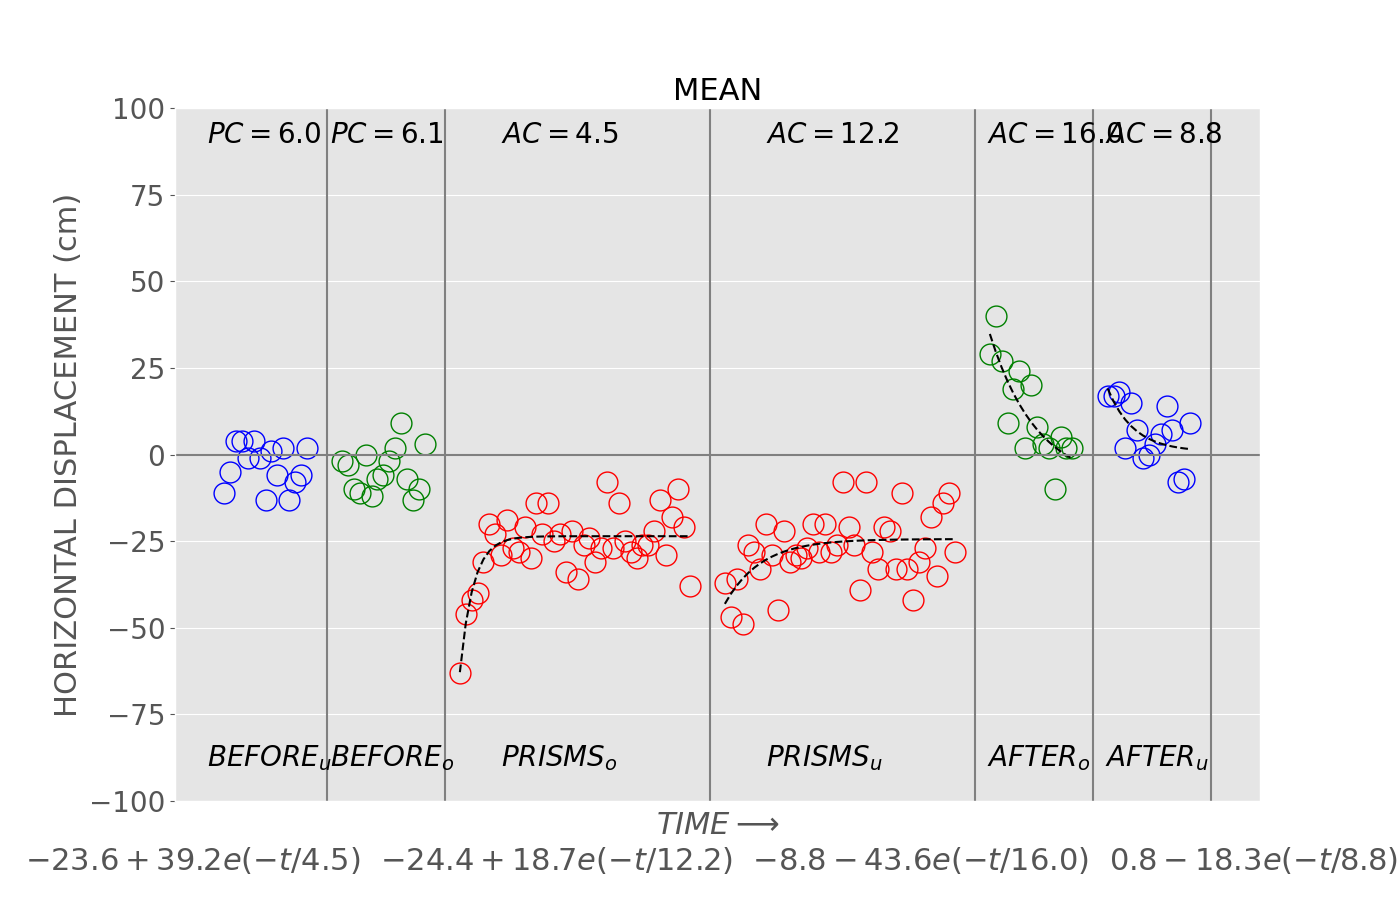
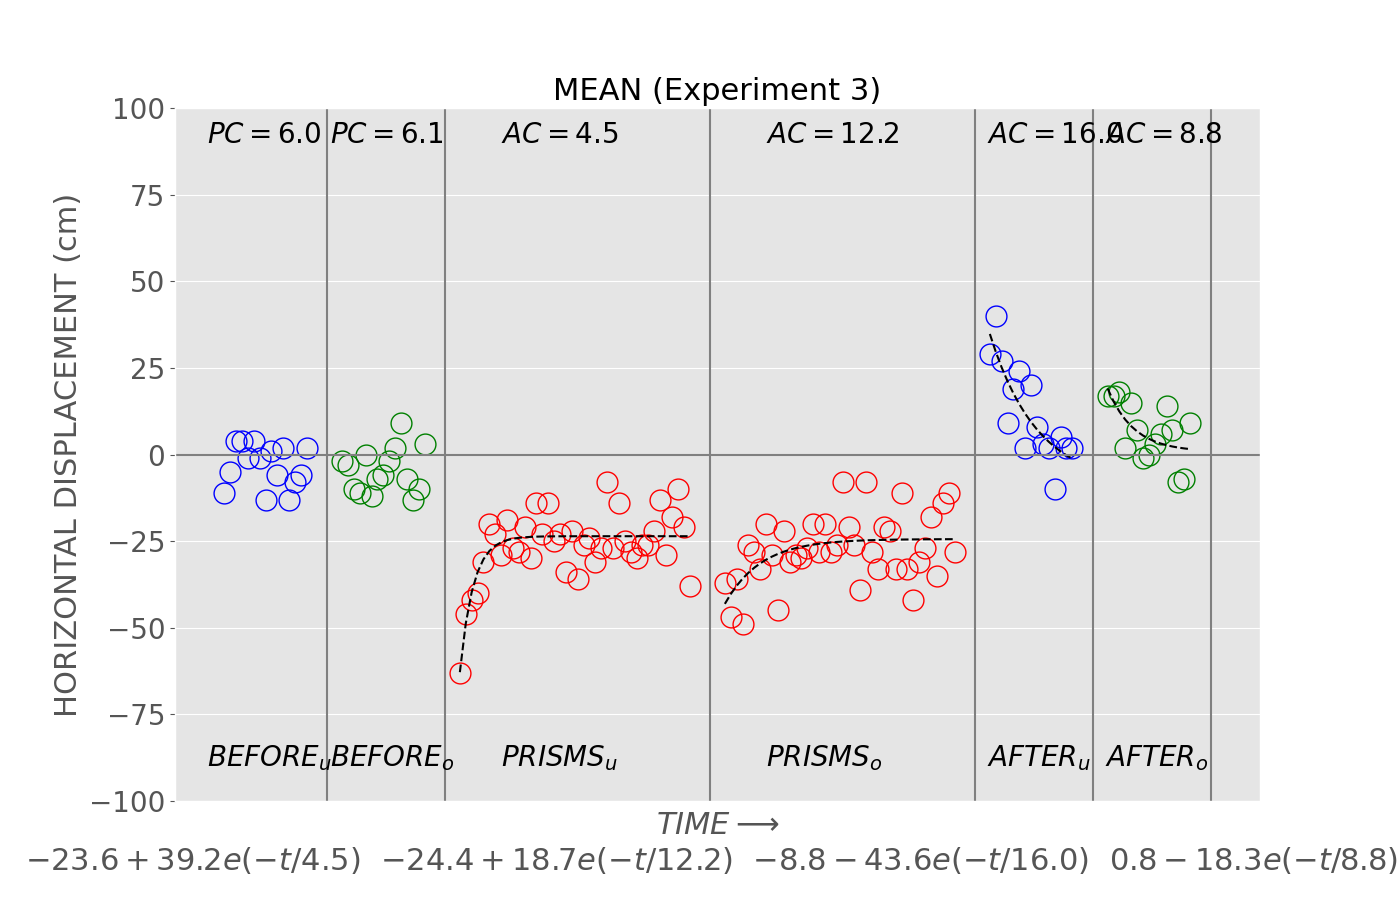
-z

diff --git a/exp4.py b/exp4.py
@@ -32,9 +32,9 @@ for x, d in enumerate(data):
             if x + 1 in t:
                 p[k].append(v)
 subject = 5
-#avg = [2,7,-9,-7,-1,1,-6,-3,1,8,12,-6,-5,4,-4,4,-4,-15,4,-1,-3,-1,-3,2,-6,-7,-2,-9,3,2,-78,-51,-41,-36,-35,-26,-35,-22,-29,-33,-24,-26,-22,-15,-18,-25,-20,-21,-12,-18,-21,-15,-17,-13,-17,-22,-6,-19,-13,-15,-19,-5,-3,-6,-16,-15,3,-11,-15,-7,-56,-48,-37,-17,-10,-22,-28,-22,-28,-12,-11,-24,-16,-20,-13,-7,-5,-22,-3,-12,-14,-9,-4,-10,-9,-13,-2,-8,-9,-11,-13,-9,-5,-9,-14,-4,-17,-13,-14,-3,49,38,20,19,21,17,17,9,9,18,6,5,13,15,4,39,36,23,21,14,11,20,6,11,16,4,11,5,13,5]
+
+avg=[-4,0,-6,-5,0,1,-4,-5,0,4,7,-6,-6,1,-2,-2,-4,-9,2,-4,-5,-4,-4,-1,-4,2,-5,-9,2,-3,-68,-45,-36,-32,-29,-23,-27,-24,-22,-24,-22,-22,-19,-12,-16,-15,-18,-17,-16,-17,-21,-14,-12,-15,-16,-14,-11,-15,-14,-19,-19,-11,-7,-10,-12,-14,-5,-8,-10,-19,-47,-45,-32,-28,-15,-21,-26,-18,-24,-21,-14,-20,-15,-19,-18,-16,-11,-18,-11,-13,-11,-11,-11,-15,-7,-14,-11,-9,-11,-14,-9,-10,-13,-15,-12,-7,-19,-10,-10,-7,38,35,22,17,17,18,11,12,7,12,6,0,8,8,8,32,30,23,16,13,9,10,5,6,14,7,12,3,7,5]
 #actually the median
-avg=[-6,-3.1,-10,-6.3,2,2,-2,-2,0,3,3,-2,-4,1,-3,0,-4,-8,1,-5,-5.5,-5.1,-4,2,2,3,-4,-6,6,3,-70,-43,-35,-32.5,-19.3,-19,-24,-12,-12,-15.3,-16.7,-16,-12.9,-9,-15,-4,-20,-11,-16.1,-13,-15,-12,-12.7,-13,-11.1,-7,-10,-10.5,-11,-8,-21,-5.6,-9,-8,-7,-8,1,1.6,-8,-14,-52,-45,-33,-30.6,-14,-21,-25,-12,-24,-13,-11,-21,-11,-11,-17.4,-12,-11,-13,-9,-14,-13,-12,-9.5,-16,-5,-15,-12,-7,-13,-9,-8,-5,-9,-11,-11,-3.7,-12,-4.6,-9.7,-7,42.5,40.5,24.5,20,12,16,12,11.85,3,12.5,8,1,6.9,2,2.55,37,26,22,20,13,10.2,14,1,6.5,16,3,9,5.6,4.5,6]
 #exp_data[subject]={'before_u': avg[0:15], 'before_o': avg[15:30], 'prism': avg[30:70], 'after_u':avg[70:85], 'after_o': avg[85:100]}
 print(exp_data[subject])
 exp_data[subject] = {'before_u':avg[0:15],'before_o':avg[15:30],'prism_o':avg[30:70],'prism_u':avg[70:110],'after_o':avg[110:125],'after_u':avg[125:140]}
@@ -92,7 +92,7 @@ plt.text(185, -90, '$PRISMS_u$', fontsize=20)
 plt.text(260, -90, '$AFTER_o$', fontsize=20)
 plt.text(300, -90, '$AFTER_u$', fontsize=20)
 #plt.title(f'SUBJECT {subject + 2} {file}', fontsize=22)
-plt.title('MEDIAN', fontsize=22)
+plt.title('MEAN (Experiment 3 & 4)', fontsize=22)
 
 
 #PC standard deviation of the 8 throws before googles
@@ -104,7 +104,7 @@ plt.text(95, 90, f'$AC = {model[stage[2]][2]:.1f}$', fontsize=20)
 plt.text(185, 90, f'$AC = {model[stage[3]][2]:.1f}$', fontsize=20)
 plt.text(260, 90, f'$AC = {model[stage[4]][2]:.1f}$', fontsize=20)
 plt.text(300, 90, f'$AC = {model[stage[5]][2]:.1f}$', fontsize=20)
-plt.savefig('media/final_final_plots/median(3-4).png')
+plt.savefig('media/final_final_plots/mean(3-4).png')
 plt.show()
 print(model)
 

diff --git a/exp2.py b/exp2.py
@@ -32,8 +32,8 @@ for x, d in enumerate(data):
         for k, t in x_values.items():
             if x + 1 in t:
                 p[k].append(v)
-subject = 5
-avg=[-9,-7,-7,-14,-6,-17,-2,-5,4,-12,2.3,-2.8,-8,3,-10,0.8,-2,2,-3,-3,-7,-11,4.5,6,-6,-4,-3.3,-9,-6,-0.4,-60,-32,-25,-31,-27,-33,-36,-15,-22,-18,-26,-18,-15,-15,-13,-16,-12,-15,-17,-3.8,-11,-12,-8,-11,-16,-2,-9,-20,-6,-6,-12,1,-6,-16,-11,-10,-11,-5,1.5,-8.8,6,9,6,4,-2,4,-0.8,6,-3,-4,-4,2,2,-7,1,40,35,14,19,6,10,6,8,8,17,6,8,2.6,18,8]
+subject = 0
+avg=[-11,-4,-5,-11,-5,-13,-8,-13,7,-11,-1,-1,-6,-7,-10,-3,1,1,-3,-2,-4,-9,4,-4,-6,2,-2,-5,-3,-2,-67,-39,-26,-33,-22,-26,-36,-16,-22,-21,-19,-19,-18,-18,-13,-16,-15,-15,-17,-5,-12,-9,-10,-14,-13,-2,-11,-12,-3,-4,-15,-7,-9,-12,-10,-16,-7,-6,-6,-10,3,12,0,5,0,4,0,9,-3,-3,-3,4,0,-6,4,41,33,18,18,7,13,5,5,4,14,5,8,3,11,6]
 print("Exp 2: ",exp_data[subject])
 exp_data[5]={'before_u': avg[0:15], 'before_o': avg[15:30], 'prism': avg[30:70], 'after_u':avg[70:85], 'after_o': avg[85:100]}
 print(exp_data[5])
@@ -114,7 +114,7 @@ plt.text(105, -90, '$PRISMS$', fontsize=20)
 plt.text(170, -90, '$AFTER_u$', fontsize=20)
 plt.text(210, -90, '$AFTER_o$', fontsize=20)
 #plt.title(f'SUBJECT {subject + 1}', fontsize=22)
-plt.title(f'MEAN', fontsize=22)
+plt.title(f'MEAN (Experiment 2)', fontsize=22)
 
 # PC standard deviation of the 8 throws before googles
 PC_1 = np.std(exp_data[subject][stage[0]])
@@ -124,7 +124,7 @@ plt.text(37, 90, f'$PC = {PC_2:.1f}$', fontsize=20)
 plt.text(110, 90, f'$AC = {model[stage[2]][2]:.1f}$', fontsize=20)
 plt.text(170, 90, f'$AC = {model[stage[3]][2]:.1f}$', fontsize=20)
 plt.text(210, 90, f'$AC = {model[stage[4]][2]:.1f}$', fontsize=20)
-plt.savefig('media/final_final_plots/exp_2/median.png')
+plt.savefig('media/final_final_plots/exp_2/mean.png')
 plt.show()
 
 print(f"PCu = {PC_1:.1f}")

diff --git a/exp3.py b/exp3.py
@@ -38,6 +38,7 @@ subject = 2
 #exp_data[subject]={'before_u': avg[0:15], 'before_o': avg[15:30], 'prism': avg[30:70], 'after_u':avg[70:85], 'after_o': avg[85:100]}
 print(exp_data[subject])
 avg=[-11,-5,4,4,-1,4,-1,-13,1,-6,2,-13,-8,-6,2,-2,-3,-10,-11,0,-12,-7,-6,-2,2,9,-7,-13,-10,3,-63,-46,-42,-40,-31,-20,-23,-29,-19,-27,-28,-21,-30,-14,-23,-14,-25,-23,-34,-22,-36,-26,-24,-31,-27,-8,-27,-14,-25,-28,-30,-26,-26,-22,-13,-29,-18,-10,-21,-38,-37,-47,-36,-49,-26,-28,-33,-20,-29,-45,-22,-31,-29,-30,-27,-20,-28,-20,-28,-26,-8,-21,-26,-39,-8,-28,-33,-21,-22,-33,-11,-33,-42,-31,-27,-18,-35,-14,-11,-28,29,40,27,9,19,24,2,20,8,3,2,-10,5,2,2,17,17,18,2,15,7,-1,0,3,6,14,7,-8,-7,9]
+
 exp_data[subject] = {'before_u':avg[0:15],'before_o':avg[15:30],'prism_u':avg[30:70],'prism_o':avg[70:110],'after_u':avg[110:125],'after_o':avg[125:140]}
 print(exp_data[subject])
 my_colors = {'before_u': 'b', 'before_o': 'g', 'prism_u': 'r','prism_o': 'r', 'after_u': 'b', 'after_o': 'g'}
@@ -97,7 +98,7 @@ plt.text(185, -90, '$PRISMS_o$', fontsize=20)
 plt.text(260, -90, '$AFTER_u$', fontsize=20)
 plt.text(300, -90, '$AFTER_o$', fontsize=20)
 #plt.title(f'SUBJECT {subject + 1} {file}', fontsize=22)
-plt.title('MEAN', fontsize=22)
+plt.title('MEAN (Experiment 3)', fontsize=22)
 
 #PC standard deviation of the 8 throws before googles
 PC_1 = np.std(exp_data[subject][stage[0]])
@@ -108,7 +109,7 @@ plt.text(95, 90, f'$AC = {model[stage[2]][2]:.1f}$', fontsize=20)
 plt.text(185, 90, f'$AC = {model[stage[3]][2]:.1f}$', fontsize=20)
 plt.text(260, 90, f'$AC = {model[stage[4]][2]:.1f}$', fontsize=20)
 plt.text(300, 90, f'$AC = {model[stage[5]][2]:.1f}$', fontsize=20)
-plt.savefig('media/final_final_plots/exp_3/avg.png')
+plt.savefig('media/final_final_plots/exp_3/mean.png')
 plt.show()
 print(model)
 
